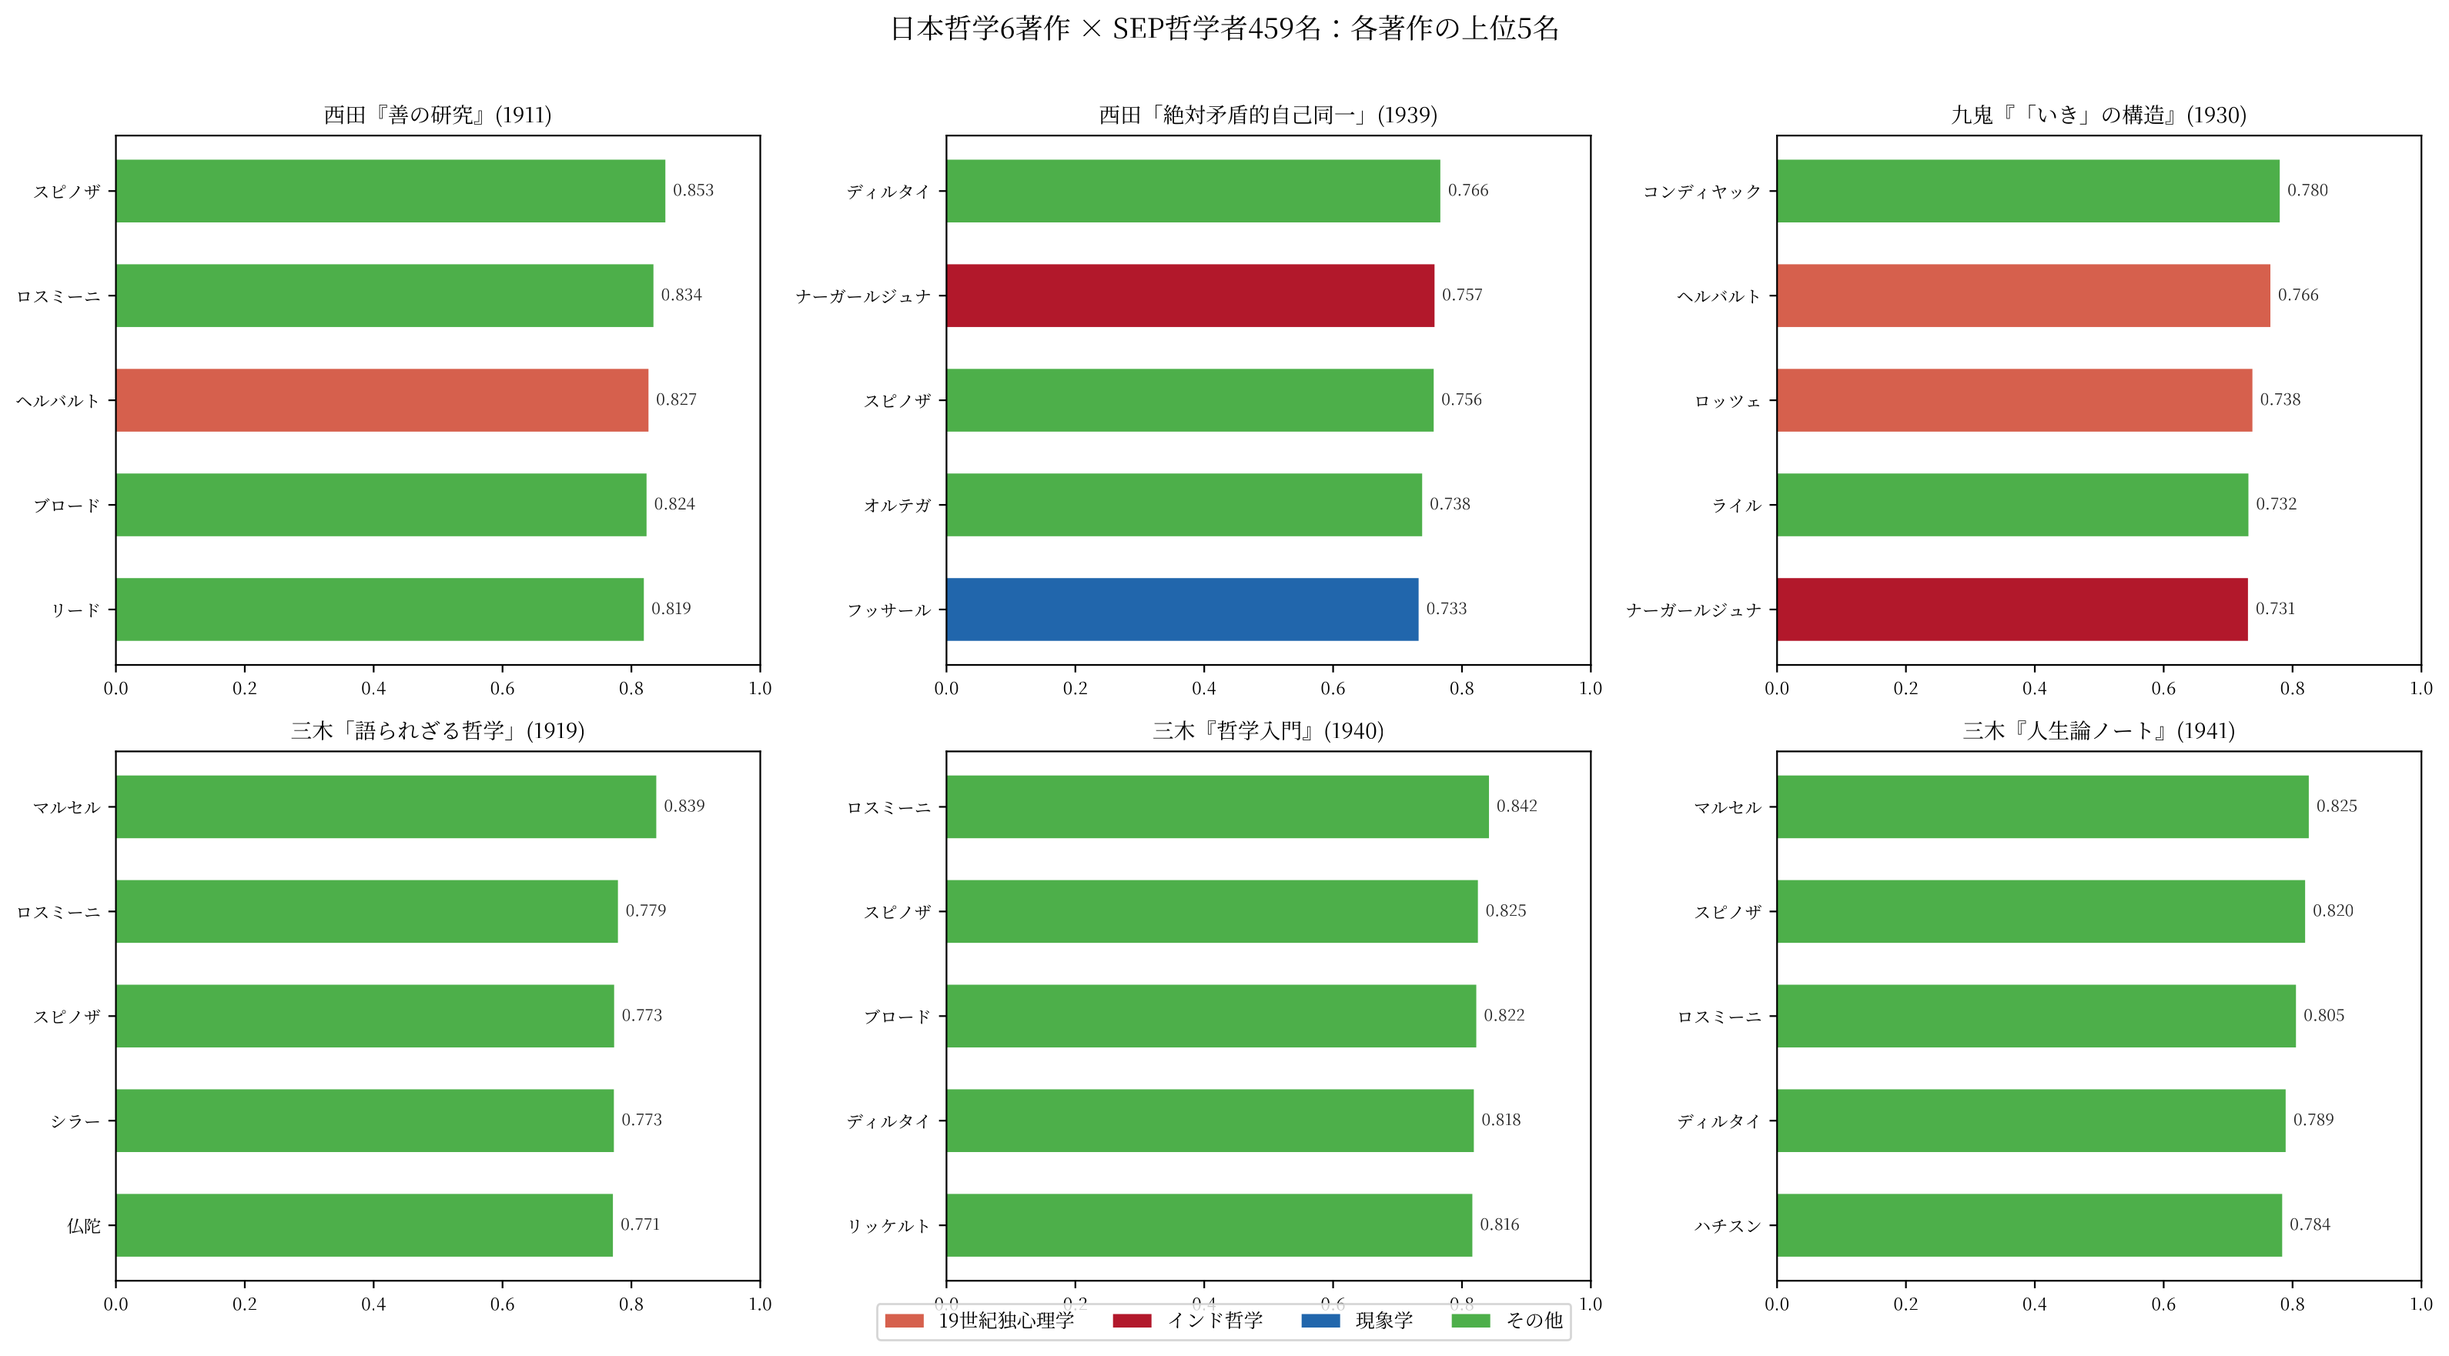
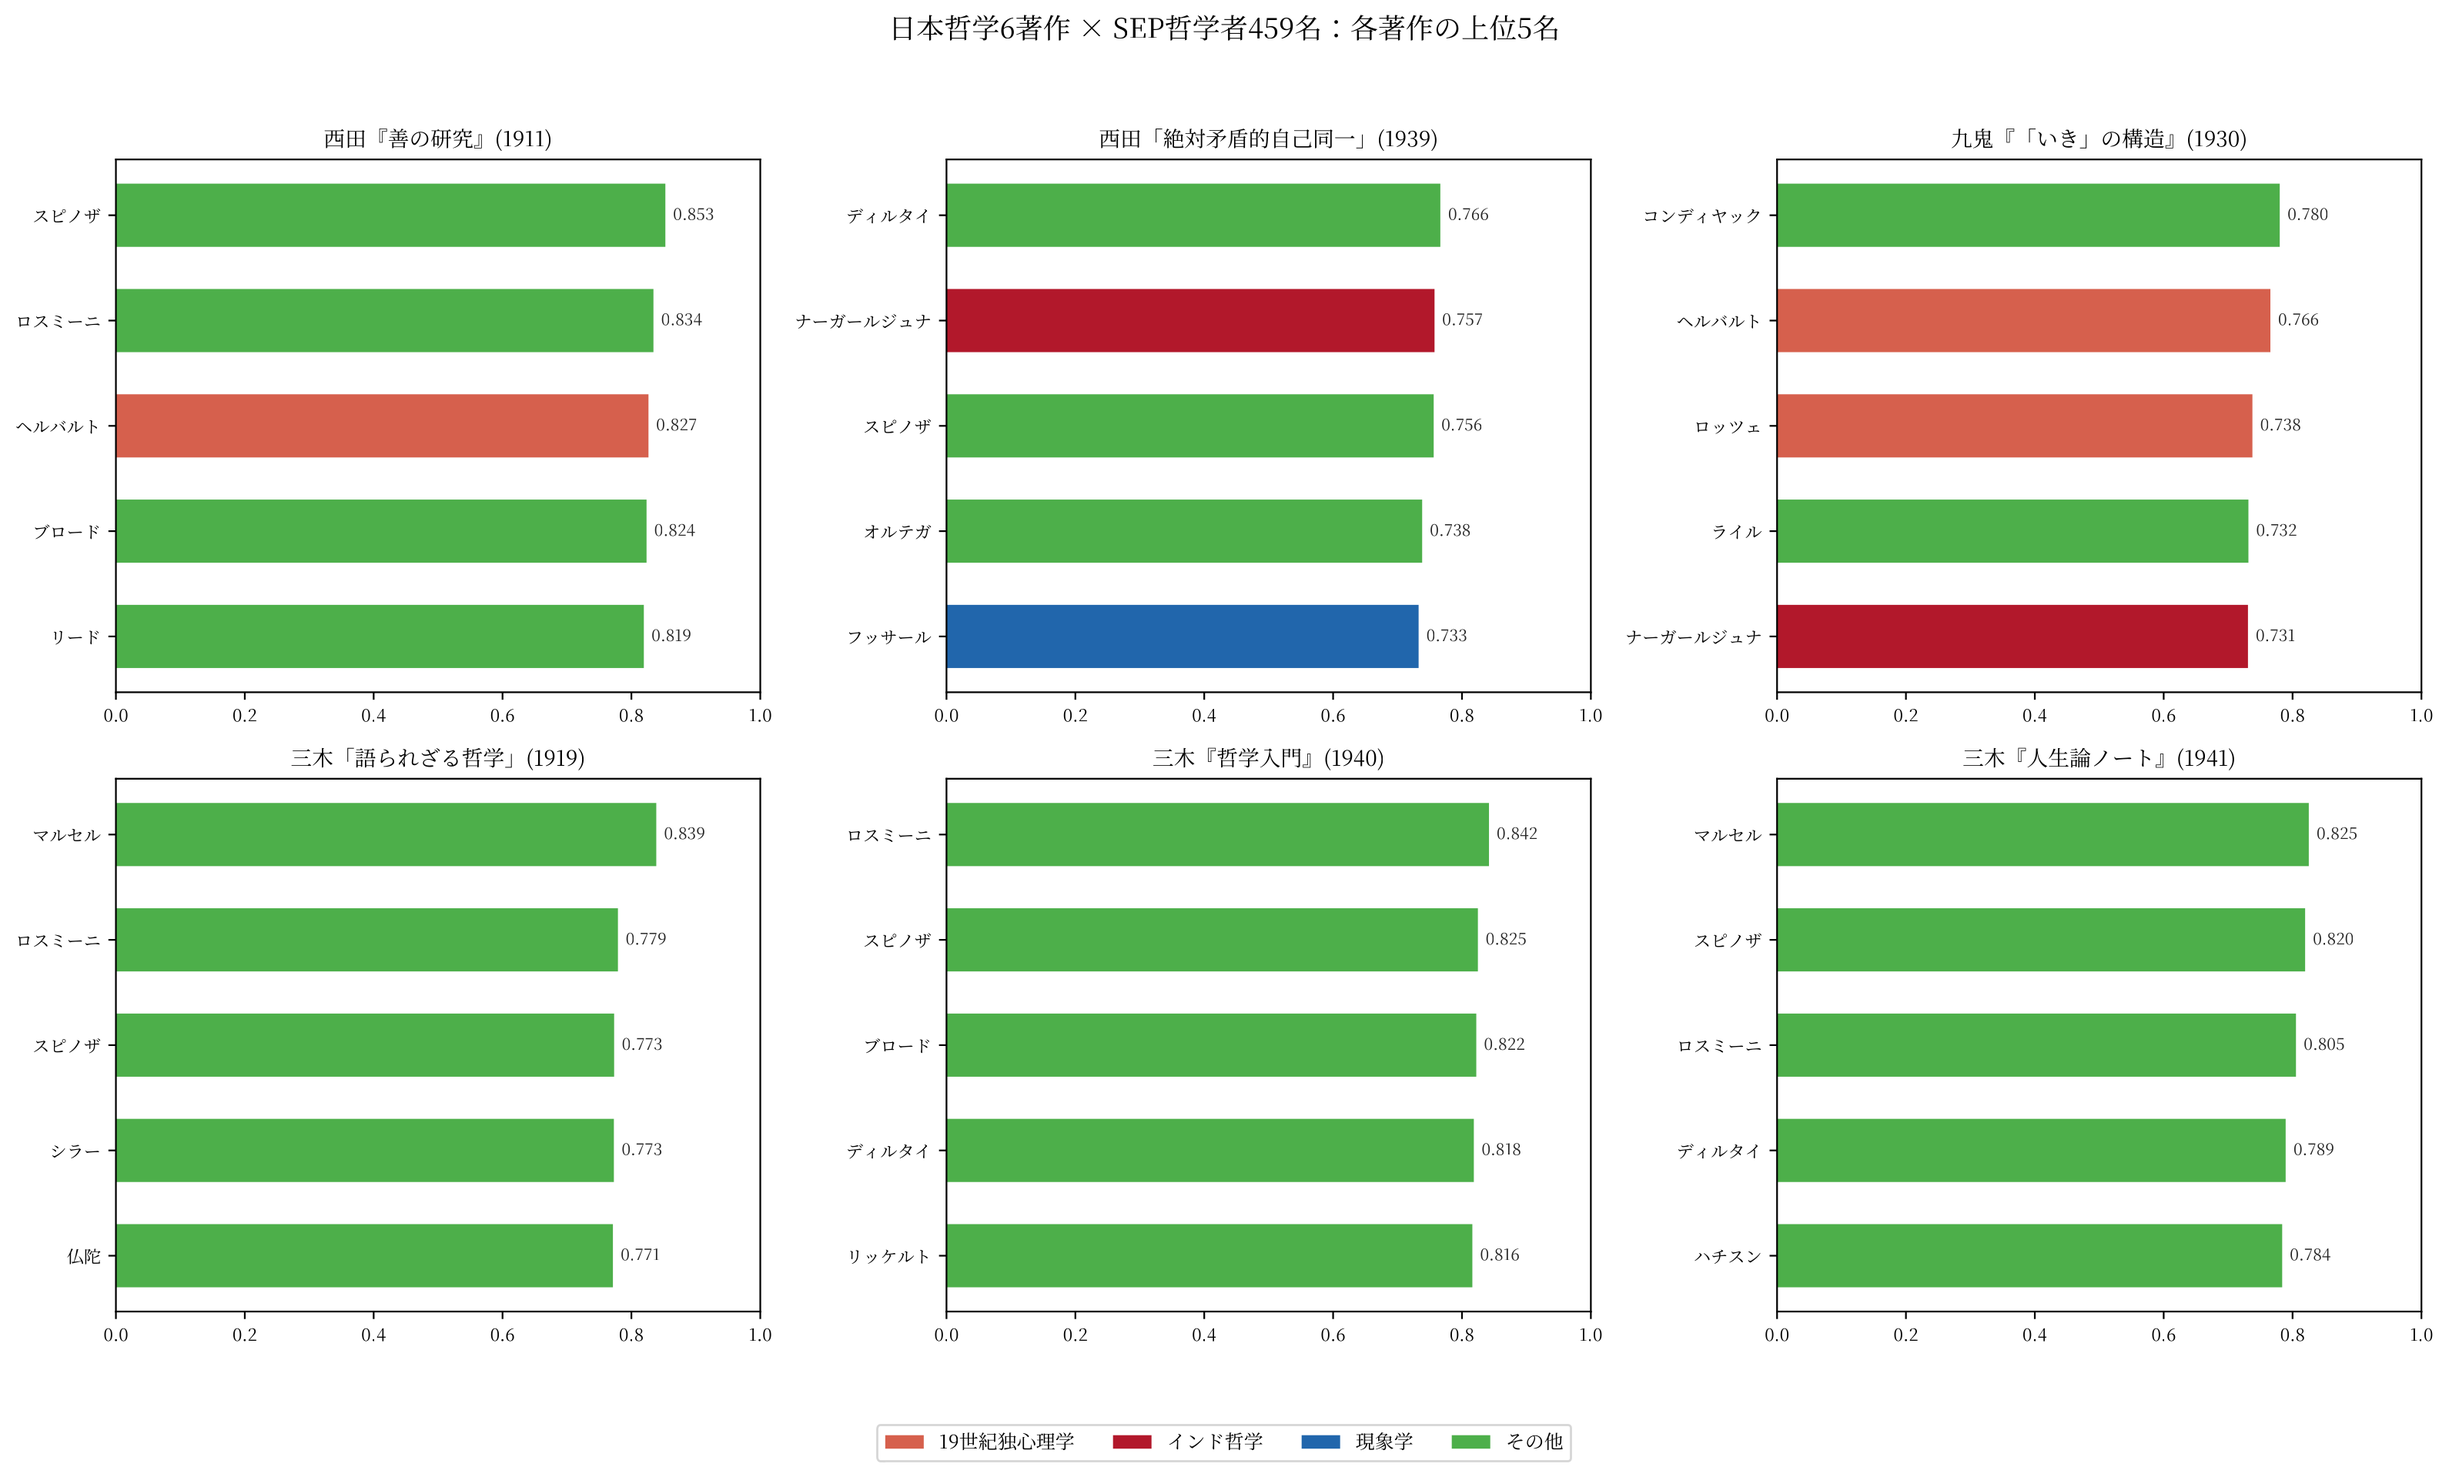
Fig.2: add vertical gap between subplots and bottom legend
The legend in fig5_all_works_top5() was visually overlapping with the
subplot x-axis tick labels. Increase figsize height (8.5 -> 9.6),
use fig.tight_layout(rect=...) to reserve clear bottom margin, and
move legend to bbox_to_anchor=(0.5, 0.01) so a blank row separates
the chart area from the legend.

diff --git a/scripts/03_generate_figures.py b/scripts/03_generate_figures.py
@@ -312,7 +312,10 @@ def fig5_all_works_top5():
     ]
 
     # Wider figure to give labels space; slight value-text padding to avoid overlap.
-    fig, axes = plt.subplots(2, 3, figsize=(16, 8.5))
+    # Extra height (8.5 → 9.6) reserves a clear blank row between subplots and the
+    # bottom-centered legend (Comment 2026-04-29: legend was visually overlapping
+    # with subplot x-axis labels).
+    fig, axes = plt.subplots(2, 3, figsize=(16, 9.6))
     axes = axes.flatten()
 
     for idx, (key, title) in enumerate(works):
@@ -342,9 +345,11 @@ def fig5_all_works_top5():
         Patch(facecolor=CAT_COLORS["phenomenology"], label="現象学"),
         Patch(facecolor=CAT_COLORS["other"], label="その他"),
     ]
-    fig.legend(handles=legend_items, loc="lower center", ncol=4, fontsize=9, bbox_to_anchor=(0.5, -0.01))
-    fig.suptitle("日本哲学6著作 × SEP哲学者459名：各著作の上位5名", fontsize=13, y=1.01)
-    fig.tight_layout()
+    fig.suptitle("日本哲学6著作 × SEP哲学者459名：各著作の上位5名", fontsize=13, y=0.995)
+    # tight_layout first, then reserve bottom space for the legend with clear gap
+    fig.tight_layout(rect=[0, 0.08, 1, 0.97])
+    fig.legend(handles=legend_items, loc="lower center", ncol=4, fontsize=9,
+               bbox_to_anchor=(0.5, 0.01))
     fig.savefig(OUT_DIR / "all_works_top5.pdf")
     print(f"  Saved all_works_top5.pdf")
     plt.close(fig)
